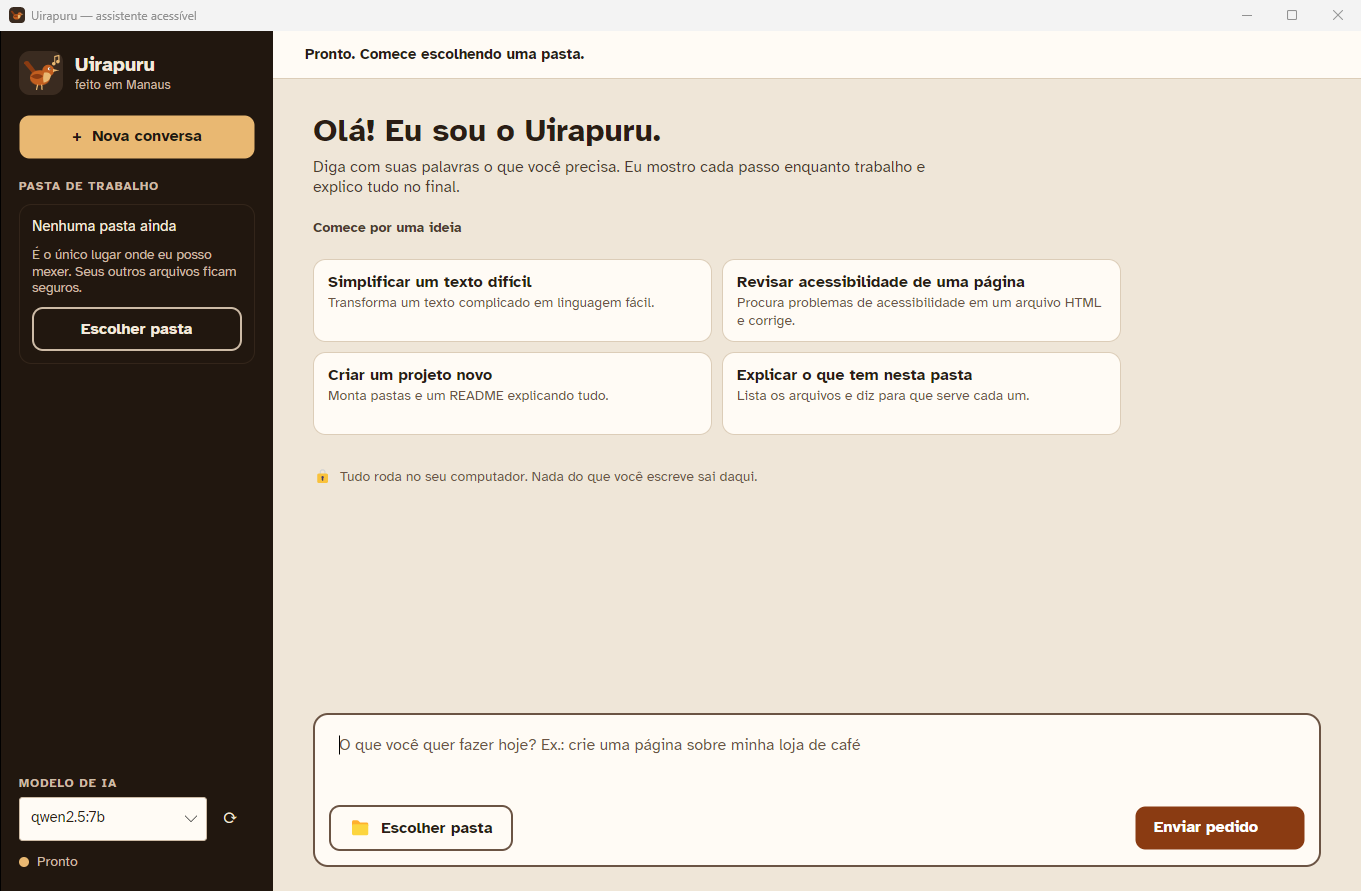
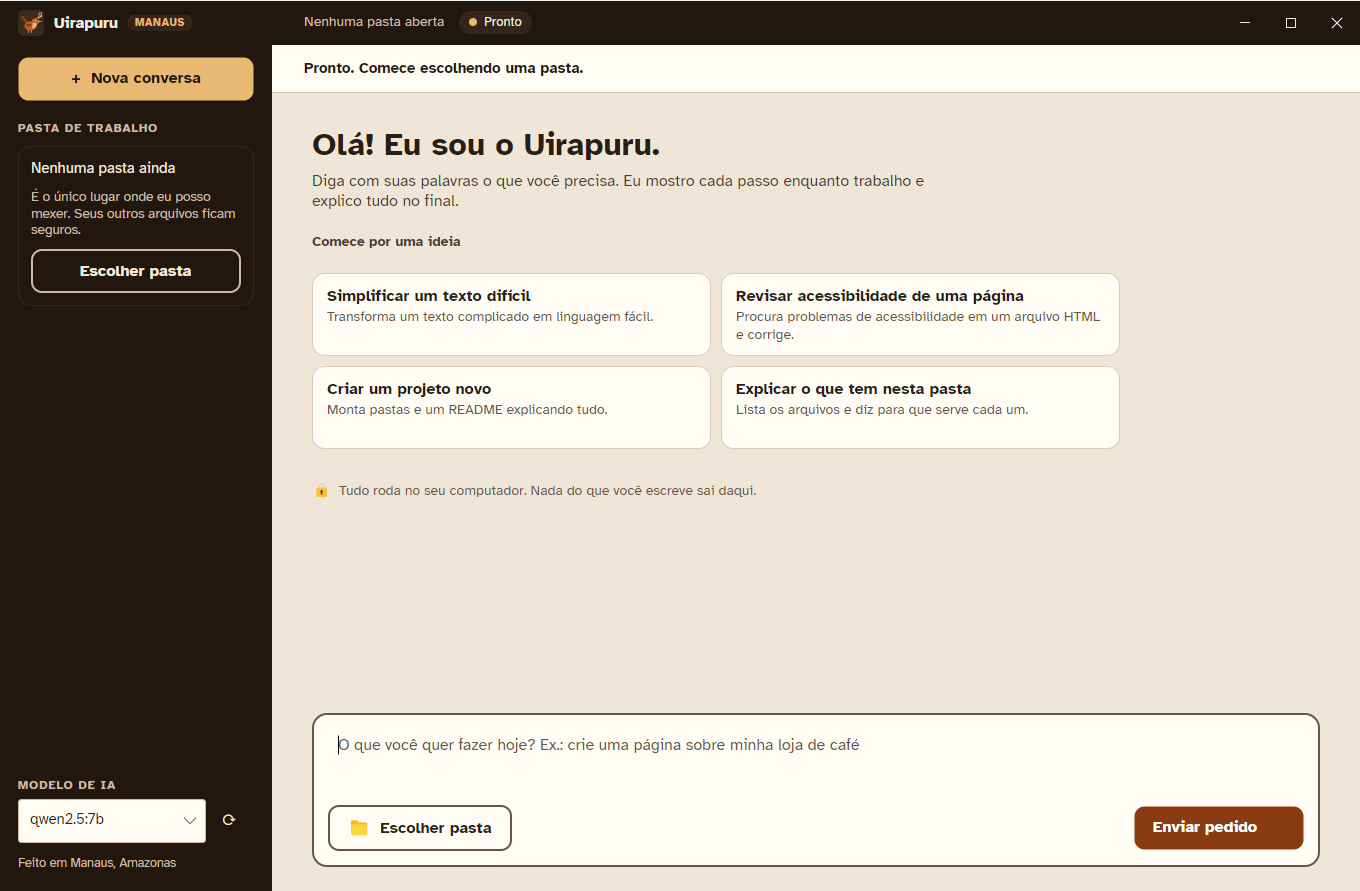
feat: atualizar informações do servidor MCP e melhorar a interface do usuário

diff --git a/src/mcp_server/handler.rs b/src/mcp_server/handler.rs
@@ -2,7 +2,7 @@ use std::sync::Arc;
 
 use rmcp::{
     handler::server::{router::tool::ToolRouter, wrapper::Parameters},
-    model::{ServerCapabilities, ServerConfig},
+    model::{Implementation, ServerCapabilities, ServerConfig},
     tool, tool_handler, tool_router, ServerHandler,
 };
 use tracing::error;
@@ -141,10 +141,16 @@ fn fs_call<T: serde::Serialize>(server: &A11yMcpServer, name: &str, args: T) -> 
 #[tool_handler(router = self.tool_router)]
 impl ServerHandler for A11yMcpServer {
     fn get_info(&self) -> ServerConfig {
+        // Nome que os clientes MCP mostram (sem isso aparece o da biblioteca, "rmcp").
+        let mut info = Implementation::new("uirapuru", env!("CARGO_PKG_VERSION"));
+        info.title = Some("Uirapuru".into());
+        info.description = Some("Agente de IA acessível: linguagem simples e ferramentas de arquivo restritas a uma pasta.".into());
+        info.website_url = Some("https://github.com/JosiasAz/a11y-rust-mcp".into());
         ServerConfig::new(ServerCapabilities::builder().enable_tools().build())
+            .with_server_info(info)
             .with_instructions(
-                "Rust-A11y-Agent: acessibilidade cognitiva + agente de código \
-                 (read/write/edit/list/mkdir/glob/grep/terminal/structure) sandboxed no workspace.",
+                "Uirapuru: acessibilidade cognitiva (simplificar_texto, verificar_compreensao, criar_lembrete) \
+                 e ferramentas de arquivo/terminal restritas à pasta A11Y_WORKSPACE.",
             )
     }
 }

diff --git a/desktop/Views/MainWindow.axaml.cs b/desktop/Views/MainWindow.axaml.cs
@@ -57,6 +57,15 @@ public partial class MainWindow : Window
         this.FindControl<TextBox>("PromptBox")?.Focus();
     }
 
+    // Botões da barra de título própria. O mouse é tratado pelo Windows (papel na barra);
+    // estes Click atendem o teclado (Tab até o botão + Enter/Espaço).
+    private void OnMinimizeClick(object? sender, RoutedEventArgs e) => WindowState = WindowState.Minimized;
+
+    private void OnMaximizeClick(object? sender, RoutedEventArgs e) =>
+        WindowState = WindowState == WindowState.Maximized ? WindowState.Normal : WindowState.Maximized;
+
+    private void OnCloseClick(object? sender, RoutedEventArgs e) => Close();
+
     private async void OnFileDoubleTapped(object? sender, TappedEventArgs e) => await OpenSelectedFile(sender);
 
     private async void OnFileListKeyDown(object? sender, KeyEventArgs e)

diff --git a/README.md b/README.md
@@ -1,6 +1,53 @@
-# A11y Agent
+<p align="center">
+  <img src="docs/logo-uirapuru.png" width="128" height="128" alt="Logo do Uirapuru: um pássaro uirapuru cor de ferrugem, com a garganta dourada e uma nota musical, sobre fundo marrom-escuro.">
+</p>
 
-Um agente de IA que trabalha no seu computador e **explica o que fez**, para quem nunca abriu um terminal.
+<h1 align="center">Uirapuru</h1>
+
+<p align="center">
+  <strong>Um agente de IA que trabalha no seu computador e explica o que fez, para quem nunca abriu um terminal.</strong><br>
+  Roda 100% local com o Ollama. Feito em Manaus, Amazonas.
+</p>
+
+<p align="center">
+  <img src="https://img.shields.io/badge/vers%C3%A3o-0.1.0-8A3B12" alt="Versão 0.1.0">
+  <img src="https://img.shields.io/badge/Rust-1.89%2B-21170F?logo=rust&logoColor=white" alt="Rust 1.89 ou mais novo">
+  <img src="https://img.shields.io/badge/.NET-10-512BD4?logo=dotnet&logoColor=white" alt=".NET 10">
+  <img src="https://img.shields.io/badge/Avalonia-12-8B44AC" alt="Avalonia 12">
+  <img src="https://img.shields.io/badge/Windows-10%20%7C%2011%20(x64)-0078D4" alt="Windows 10 e 11, 64 bits">
+  <br>
+  <img src="https://img.shields.io/badge/MCP-stdio%20%7C%20HTTP-1F6B4F" alt="Servidor MCP via stdio e HTTP">
+  <img src="https://img.shields.io/badge/IA%20local-Ollama-21170F?logo=ollama&logoColor=white" alt="IA local com Ollama">
+  <img src="https://img.shields.io/badge/contraste-WCAG%20AA%20medido-1F6B4F" alt="Contraste WCAG AA medido">
+  <img src="https://img.shields.io/badge/licen%C3%A7a-MIT-4E3B2E" alt="Licença MIT">
+</p>
+
+<p align="center">
+  <a href="#começar-a-usar">Começar a usar</a> ·
+  <a href="#usar-via-mcp">Usar via MCP</a> ·
+  <a href="#por-dentro">Por dentro</a> ·
+  <a href="#o-que-ainda-não-está-bom">Limites conhecidos</a> ·
+  <a href="#licença">Licença</a>
+</p>
+
+![Tela inicial do Uirapuru. No topo, uma barra de título marrom-escura de ponta a ponta com o logo do pássaro uirapuru, o nome "Uirapuru", o selo dourado "MANAUS", o texto "Nenhuma pasta aberta", o selo de estado "Pronto" e os botões de minimizar, maximizar e fechar. À esquerda, a barra lateral da mesma cor com o botão dourado "Nova conversa", o cartão "Nenhuma pasta ainda" com o botão "Escolher pasta" e, embaixo, o seletor de modelo de IA. À direita, em fundo bege-claro, a faixa de status, a saudação "Olá! Eu sou o Uirapuru.", quatro ideias de pedido e o aviso de que tudo roda no computador. Embaixo, a caixa de pedido com os botões "Escolher pasta" e "Enviar pedido", este em cor de ferrugem.](docs/tela-inicial.png)
+
+## Destaques
+
+- **Linguagem simples:** cada ação vira uma frase ("Escrevendo arquivo: index.html"), e a resposta final sempre diz o que foi feito e como conferir.
+- **Plano antes de agir:** o agente mostra as etapas e só começa depois do seu clique. Se o pedido for ambíguo, ele pergunta.
+- **Só mexe na pasta que você escolher:** caminhos fora dela são recusados, inclusive por atalhos (symlinks e junctions).
+- **Privado:** a IA roda no seu computador. A API local exige um token novo a cada início e só escuta em `127.0.0.1`.
+- **Feito para leitor de tela:** o progresso é anunciado ao vivo, o foco tem contraste de pelo menos 3:1 e a fonte é a Atkinson Hyperlegible.
+- **Também é servidor MCP:** Claude Desktop, Claude Code, Cursor e outros clientes podem usar as mesmas ferramentas.
+
+## Requisitos
+
+| Para usar | Para desenvolver |
+| --- | --- |
+| Windows 10 ou 11, 64 bits | Rust **1.89** ou mais novo |
+| [Ollama](https://ollama.com/download) | .NET SDK **10** |
+| Cerca de 5 GB livres para o modelo `qwen2.5:7b` (8 GB de RAM ou mais recomendados) | Inno Setup 6 e `signtool` do Windows SDK (só para gerar o instalador) |
 
 ---
 
@@ -67,10 +114,6 @@ Tudo fica no seu computador. Nada vai para a internet.
 
 ---
 
-![Tela inicial do Uirapuru. À esquerda, uma barra lateral marrom-escura com o logo do pássaro uirapuru, o botão dourado "Nova conversa", o cartão "Nenhuma pasta ainda" com o botão "Escolher pasta" e, embaixo, o seletor de modelo de IA e o estado "Pronto". À direita, em fundo bege-claro, a saudação "Olá! Eu sou o Uirapuru.", quatro ideias de pedido e o aviso de que tudo roda no computador. Embaixo, a caixa de pedido com os botões "Escolher pasta" e "Enviar pedido", este em cor de ferrugem.](docs/tela-inicial.png)
-
----
-
 ## Cinco regras que o código segue
 
 Cada regra aponta para o lugar do código onde ela está implementada, para você conferir.
@@ -101,8 +144,8 @@ Depois:
 1. Instale o Uirapuru com o `Uirapuru-Setup-<versão>.exe`. Abra o Ollama e depois o **Uirapuru** pelo menu Iniciar.
 2. Clique em **Escolher pasta**.
 3. Escreva o pedido e aperte **Enter**.
-4. Em menos de um minuto aparece **Meu plano**, com as etapas. Se estiver bom, clique em **Começar**. Se o pedido for ambíguo, o assistente pergunta antes ("janela no computador ou página web?") e você responde com um clique.
-5. Acompanhe: cada etapa vai de ○ para … e depois para ✓, e o cartão mostra há quanto tempo o assistente está trabalhando.
+4. Em menos de um minuto aparece **Meu plano**, com as etapas. Se estiver bom, clique em **Começar**. Se o pedido for ambíguo, o agente pergunta antes ("janela no computador ou página web?") e você responde com um clique.
+5. Acompanhe: cada etapa vai de ○ para … e depois para ✓, e o cartão mostra há quanto tempo o agente está trabalhando.
 
 Na barra lateral, em **Modelo de IA**, você escolhe qualquer modelo instalado no Ollama. Modelos menores respondem mais rápido. Para instalar outro, digite no terminal `ollama pull nome-do-modelo` e clique em ⟳.
 
@@ -160,13 +203,58 @@ Com o certificado de teste, o Windows mostra o editor, mas ainda avisa "Editor d
 
 ---
 
+## Usar via MCP
+
+O mesmo executável do agente é um servidor [MCP](https://modelcontextprotocol.io) (Model Context Protocol). Assim, Claude Desktop, Claude Code, Cursor e outros clientes usam as ferramentas do Uirapuru. Ele se apresenta como `uirapuru`.
+
+Depois de instalar, o executável fica em `%LOCALAPPDATA%\Programs\Uirapuru\agent\rust-a11y-agent.exe`.
+
+**Claude Desktop, Cursor e similares** (configuração MCP do cliente):
+
+```json
+{
+  "mcpServers": {
+    "uirapuru": {
+      "command": "C:\\Users\\SEU_USUARIO\\AppData\\Local\\Programs\\Uirapuru\\agent\\rust-a11y-agent.exe",
+      "args": ["mcp-server"],
+      "env": {
+        "A11Y_WORKSPACE": "C:\\caminho\\da\\pasta\\permitida",
+        "LLM_MODEL": "qwen2.5:7b"
+      }
+    }
+  }
+}
+```
+
+**Claude Code:**
+
+```powershell
+claude mcp add uirapuru --env A11Y_WORKSPACE="C:\caminho\da\pasta" --env LLM_MODEL=qwen2.5:7b -- "$env:LOCALAPPDATA\Programs\Uirapuru\agent\rust-a11y-agent.exe" mcp-server
+```
+
+**Por HTTP** (clientes que se conectam por URL): rode `rust-a11y-agent.exe mcp-http --bind 127.0.0.1:8000`. Ao iniciar, ele imprime `A11Y_API_TOKEN=<token>`; configure o cliente com a URL `http://127.0.0.1:8000/mcp` e o header `Authorization: Bearer <token>`. O token muda a cada início.
+
+| Ferramenta | O que faz |
+| --- | --- |
+| `simplificar_texto` | Reescreve um texto difícil em linguagem simples (usa o modelo do Ollama) |
+| `verificar_compreensao` | Confere se um texto ficou compreensível, por partes (usa o modelo) |
+| `criar_lembrete` | Cria um lembrete curto e claro |
+| `read_file`, `write_file`, `str_replace` | Lê, cria e edita arquivos |
+| `list_dir`, `mkdir`, `delete_path`, `create_structure` | Lista, cria e apaga pastas e arquivos |
+| `glob_files`, `grep_search` | Procura arquivos por nome e texto |
+| `run_terminal` | Roda um comando na pasta (veja o aviso abaixo) |
+
+Todas as ferramentas ficam presas à pasta `A11Y_WORKSPACE`. Se ela não for definida, vale a pasta de onde o cliente abriu o processo. **`run_terminal` executa comandos de verdade:** no modo padrão, só a pasta inicial e o tempo-limite limitam o comando. Para isolar de fato, adicione `"A11Y_SANDBOX": "docker"` no `env` (precisa do Docker Desktop aberto).
+
+---
+
 ## O que ainda não está bom
 
 Este projeto quer servir de referência em acessibilidade, então os limites ficam à vista:
 
-- **No app, o assistente não roda comandos no terminal.** Ele cria e edita arquivos, e a explicação final diz como abrir o resultado. Nos modos `chat` e MCP o `run_terminal` continua disponível. Por padrão ele roda no shell local (`A11Y_SANDBOX=host`), que **não isola nada** além da pasta inicial e do tempo-limite. Com `A11Y_SANDBOX=docker` o comando roda num container sem rede que só enxerga a pasta.
+- **No app, o agente não roda comandos no terminal.** Ele cria e edita arquivos, e a explicação final diz como abrir o resultado. Nos modos `chat` e MCP o `run_terminal` continua disponível. Por padrão ele roda no shell local (`A11Y_SANDBOX=host`), que **não isola nada** além da pasta inicial e do tempo-limite. Com `A11Y_SANDBOX=docker` o comando roda num container sem rede que só enxerga a pasta.
 - **O `mcp-http` usa HTTP sem TLS.** O token protege contra quem não o conhece, mas na rede local ele passa em texto aberto. Prefira `127.0.0.1`.
-- **Ainda não houve teste com NVDA, Narrador nem com pessoas usuárias.** Tudo acima é intenção de projeto, não resultado medido. A única exceção são os contrastes de texto (14,6:1, 6,3:1 e 6,1:1), que foram medidos.
+- **Ainda não houve teste com NVDA, Narrador nem com pessoas usuárias.** Tudo acima é intenção de projeto, não resultado medido. A única exceção são os contrastes, que foram medidos: texto principal 13,2:1, texto de apoio 8,5:1 e 5,7:1, botão de ação 7,7:1 e anel de foco 5,8:1 (os valores estão comentados em `desktop/App.axaml`).
 - **Modelos pequenos erram e usam jargão**, como o "diretório raiz" da conversa lá em cima.
 
 Se você usa leitor de tela, tem deficiência cognitiva ou trabalha com quem tem, o seu relato vale mais que qualquer código. Abra uma *issue* contando o que aconteceu, sem precisar saber programar.
@@ -194,7 +282,7 @@ sequenceDiagram
     UI-->>P: cartão com ✓, botão do arquivo e explicação
 ```
 
-A mesma caixa de ferramentas também está disponível via **MCP** (Model Context Protocol). Assim, Claude Desktop, Cursor e outros clientes podem usar `simplificar_texto` e `verificar_compreensao`.
+A mesma caixa de ferramentas também está disponível via **MCP**; veja [Usar via MCP](#usar-via-mcp).
 
 <details>
 <summary><strong>Compilar, testar e estrutura do código</strong></summary>
